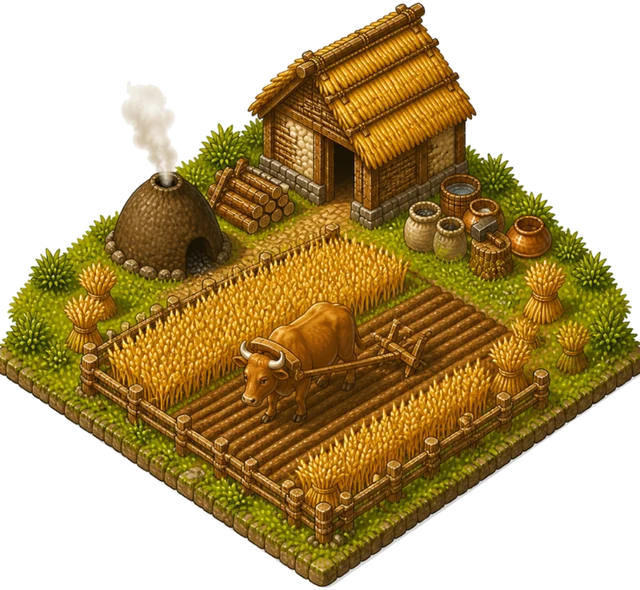
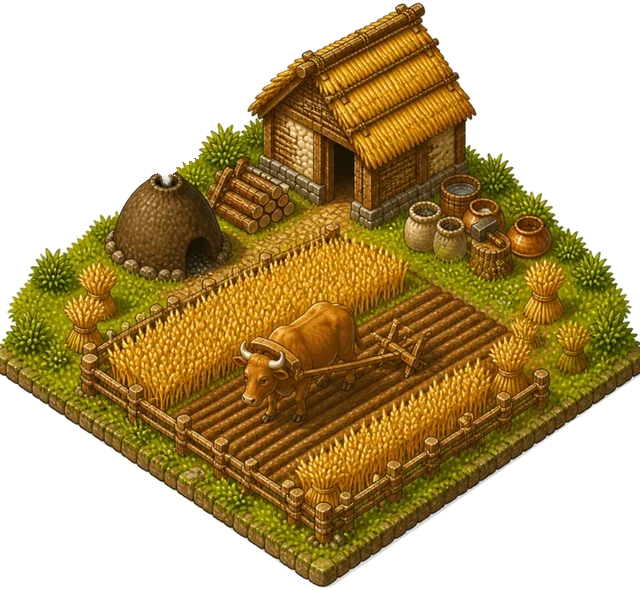
Epochia (gesammelt): Beschleunigungssteine am Gebäude, „Neu“ nur für neue Gebäude, starren Rauch aus 10 Bildern entfernt, Tagesbelohnung hochkant kompakt
Claude-Session: https://claude.ai/code/session_01W1n1hdvEnuKJoocRNGs93d

Changed region(s): [[0.1875, 0.122, 0.2812, 0.3051]]

diff --git a/neu/js/shop.js b/neu/js/shop.js
@@ -34,12 +34,39 @@ function speedUp(key, seconds, price) {
   const t = speedTargets().find(x => x.key === key);
   if (!t) return 'Das läuft nicht mehr';
   if (!spendGold(price)) return 'Nicht genug Gold';
-  const left = Math.max(0.01, t.left - seconds);
+  applySpeed(key, t.left - seconds);
+  return null;
+}
+
+function applySpeed(key, rest) {
+  const left = Math.max(0.01, rest);
   if (key === 'r') state.research.left = left;
   else if (key[0] === 'b') state.buildings[Number(key.slice(1))].build = left;
   else if (key[0] === 'u') state.buildings[Number(key.slice(1))].up = left;
   else state.wonders[key.slice(1)].left = left;
   emit('speedUsed', key);
+}
+
+// Beschleunigungsstein: am Gebäude (Bau oder Ausbau) – ein Stein spart CONFIG.shop.stone.seconds
+function stoneKey(i) {
+  const b = state.buildings[i];
+  if (!b || BUILDINGS[b.type].wonder) return null;
+  return b.build > 0 ? 'b' + i : b.up > 0 ? 'u' + i : null;
+}
+function useStone(i) {
+  const key = stoneKey(i);
+  const t = key && speedTargets().find(x => x.key === key);
+  if (!t) return 'Hier wird gerade nichts gebaut';
+  if ((state.shop.stones || 0) < 1) return 'Keine Beschleunigungssteine';
+  state.shop.stones -= 1;
+  applySpeed(key, t.left - CONFIG.shop.stone.seconds);
+  return null;
+}
+function buyStones(k) {
+  const p = CONFIG.shop.stone.packs[k];
+  if (!spendGold(p.price)) return 'Nicht genug Gold';
+  state.shop.stones = (state.shop.stones || 0) + p.n;
+  emit('goldChanged');
   return null;
 }
 
@@ -97,6 +124,12 @@ function shopRow(icon, title, sub, price, onclick, enabled = true) {
     <button class="btn${can ? ' primary' : ''}" ${can ? '' : 'disabled'} onclick="${onclick}">${goldText(price)}<small class="shop-euro">≈ ${goldEuro(price)} €</small></button></div>`;
 }
 
+function stoneShopHtml() {
+  const c = CONFIG.shop.stone;
+  return `<p class="empty-note">Du hast <b>⚡ ${state.shop.stones || 0}</b>. Tippe beim Bauen oder Ausbauen auf ⚡ am Gebäude: Jeder Stein spart ${Math.round(c.seconds / 60)} Minuten.</p>`
+    + c.packs.map((p, k) => shopRow('<span class="ic emoji big">⚡</span>', `${p.n} Beschleunigungssteine`, `${p.n * Math.round(c.seconds / 60)} Minuten schneller bauen`, p.price, `doBuyStones(${k})`)).join('');
+}
+
 function shopSpeedHtml() {
   const list = speedTargets();
   if (!list.length) return '<p class="empty-note">Gerade läuft nichts, das man beschleunigen kann.</p>';
@@ -133,6 +166,7 @@ function shopInner() {
     : shopRow('<span class="ic emoji big">🏗</span>', 'Eine Baustelle mehr', `Dauerhaft ${CONFIG.maxConstructions + 1} statt ${CONFIG.maxConstructions} gleichzeitig`, c.slotPrice, 'doBuySlot()');
   return `<div class="shop-head"><span class="shop-gold">${goldText(state.shop.gold)}</span><small>${c.testMode ? 'Testmodus: Es fließt kein echtes Geld.' : ''} Gold gibt es auch für Aufträge, Wünsche und die große Truhe.</small></div>
     <h3 class="find-page">Gold</h3><div class="shop-packs">${packs}</div>
+    <h3 class="find-page">Beschleunigungssteine</h3><div class="quests">${stoneShopHtml()}</div>
     <h3 class="find-page">Beschleunigen</h3><div class="quests">${shopSpeedHtml()}</div>
     ${finds ? `<h3 class="find-page">Fehlende Fundstücke</h3><div class="quests">${finds}</div>` : ''}
     <h3 class="find-page">Warenpakete</h3><div class="quests">${goods}</div>
@@ -157,6 +191,15 @@ function doSpeed(key, secs, price) { shopDone(speedUp(key, secs, price), '⚡ Be
 function doPack(i) { shopDone(buyPack(i), `🪙 +${CONFIG.shop.packs[i].gold} Gold (Test, kostenlos)`); }
 function doBuyFind(id) { shopDone(buyFind(id)); }
 function doBuyGoods(k) { shopDone(buyGoods(k), '📦 Waren geliefert'); }
+function doBuyStones(k) { shopDone(buyStones(k), `⚡ +${CONFIG.shop.stone.packs[k].n} Beschleunigungssteine`); }
+function doUseStone(i) {
+  const err = useStone(i);
+  if (err === 'Keine Beschleunigungssteine') { closeInfo(); toast('⚡ Keine Beschleunigungssteine mehr – im Shop gibt es neue'); openShop(); return; }
+  if (err) { toast(err); return; }
+  toast(`⚡ ${Math.round(CONFIG.shop.stone.seconds / 60)} Minuten schneller · noch ${state.shop.stones} Steine`);
+  playSound('muenze');
+  showInfo(i);
+}
 function doBuySlot() { shopDone(buySlot(), '🏗 Eine Baustelle mehr'); }
 
 // Knopf für Fenster: zum Shop

diff --git a/neu/js/oberflaeche.js b/neu/js/oberflaeche.js
@@ -321,19 +321,27 @@ function setBarCategory(id) {
   if (bar) bar.scrollLeft = 0;
 }
 
+// „Neu“ nur für wirklich neue Gebäude: löst ein Gebäude durch Forschung oder Zeitalter nur ein älteres derselben
+// Reihe ab (Pflanzerin → Baumgärtnerin), ist es nicht neu, nur anders (Wunsch Emin, 08.11.2026)
+function barIsNew(type, locked) {
+  const def = BUILDINGS[type];
+  if (locked || !def.requires || (state.seen || {})[type]) return false;
+  return !Object.entries(BUILDINGS).some(([t, d]) => t !== type && d.line === def.line && d.tier < def.tier && !d.upgradeOnly && d.buildable !== false);
+}
+
 function renderBuildBar() {
   if (barDrag) return;   // nicht neu aufbauen, solange ein Finger auf der Leiste liegt
   // Im Einstieg zeigt die Leiste die Kategorie, in der das gesuchte Gebäude steht
   const wanted = typeof tutorialBarType === 'function' ? tutorialBarType() : null;
   if (wanted && BUILDINGS[wanted]) barCategory = categoryOf(wanted);
   const entries = barEntries();
-  const fresh = new Set(entries.filter(({ type, locked }) => !locked && BUILDINGS[type].requires && !(state.seen || {})[type]).map(e => categoryOf(e.type)));
+  const fresh = new Set(entries.filter(({ type, locked }) => barIsNew(type, locked)).map(e => categoryOf(e.type)));
   const tabs = BAR_CATEGORIES.filter(c => entries.some(e => categoryOf(e.type) === c.id)).map(c =>
     `<button class="bar-tab${c.id === barCategory ? ' active' : ''}" onclick="setBarCategory('${c.id}')"><span class="emoji">${c.icon}</span><span class="tname">${esc(c.name)}</span>${fresh.has(c.id) && c.id !== barCategory ? '<i class="dot"></i>' : ''}</button>`).join('');
   if (tabs !== lastTabs) { $('bar-tabs').innerHTML = tabs; lastTabs = tabs; }
   const items = entries.filter(e => categoryOf(e.type) === barCategory).map(({ type, locked }) => {
     const def = BUILDINGS[type];
-    const isNew = !locked && def.requires && !(state.seen || {})[type];
+    const isNew = barIsNew(type, locked);
     const affordable = canAfford(def.cost);
     return `<div class="bar-item${locked ? ' locked' : ''}${affordable ? '' : ' poor'}" data-type="${type}"
         onpointerdown="onBarPointerDown(event,'${type}',${locked})" onpointermove="onBarPointerMove(event)"
@@ -508,6 +516,7 @@ function infoPopHtml(i) {
   }
   const btn = [];
   if (def.workers && !b.build) btn.push(`<button class="rb" aria-label="${b.paused ? 'Weiter' : 'Pause'}" onclick="${stop} togglePause(${i}); showInfo(${i})">${b.paused ? '▶' : '⏸'}</button>`);
+  if (typeof stoneKey === 'function' && stoneKey(i)) btn.push(`<button class="rb fast" aria-label="Beschleunigen (${state.shop.stones || 0} Steine)" onclick="${stop} doUseStone(${i})">⚡<i>${state.shop.stones || 0}</i></button>`);
   if (canLevelHere(i)) btn.push(`<button class="rb up" aria-label="Ausbauen" onclick="${stop} infoFor.level = true; clearTimeout(infoTimer); positionInfo()">⬆</button>`);
   if (def.storage && !b.build) btn.push(`<button class="rb" aria-label="Lager" onclick="${stop} closeInfo(); openLager()">📦</button>`);
   btn.push(`<button class="rb main" aria-label="Mehr über das Gebäude" onclick="${stop} closeInfo(); showBuildingWindow(${i})">i</button>`);

diff --git a/neu/style.css b/neu/style.css
@@ -927,8 +927,12 @@ details.more[open] summary { margin-bottom: 4px; }
   .daily-head p { font-size: 13px; }
 }
 @media (max-width: 560px) {
-  .days { grid-template-columns: repeat(4, 1fr); }
-  .day.chest { grid-column: span 1; }
+  /* hochkant: Tag 1–6 in drei Spalten, die große Truhe (Tag 7) als breite Zeile darunter – nichts wird lang gezogen */
+  .days { grid-template-columns: repeat(3, 1fr); align-items: start; }
+  .day { padding: 5px 4px 7px; }
+  .day.chest { grid-column: 1 / -1; flex-direction: row; justify-content: center; gap: 10px; padding: 6px 10px; }
+  .day.chest .ic.big { width: 44px; height: 44px; }
+  .day.chest .day-goods { flex-direction: row; flex-wrap: wrap; justify-content: center; gap: 2px 10px; }
 }
 
 /* Wunsch des Stammes (über den Aufträgen) */
@@ -1016,6 +1020,10 @@ details.history summary { cursor: pointer; font-weight: bold; color: var(--ink-s
 .rb.main { background: linear-gradient(#7ed957, #4caf50); border-color: #2e7d32; color: #fff; box-shadow: 0 2px 0 #2e7d32; font-family: Georgia, serif; font-style: italic; font-size: 20px; }
 .rb.up { background: linear-gradient(#ffe08a, #f2b632); border-color: #b07a10; color: #4a3200; box-shadow: 0 2px 0 #b07a10; }
 .rb:disabled { opacity: 0.45; }
+/* Beschleunigen mit Steinen: blauer Knopf, kleine Zahl = Steine übrig */
+.rb.fast { position: relative; background: linear-gradient(#8fd3ff, #3a8fd8); border-color: #1f5f9a; color: #fff; box-shadow: 0 2px 0 #1f5f9a; font-size: 20px; }
+.rb.fast i { position: absolute; right: -5px; bottom: -5px; min-width: 18px; height: 18px; padding: 0 4px; border-radius: 9px; background: #fff; color: #1f5f9a;
+  border: 2px solid #1f5f9a; font: 700 11px/14px system-ui, sans-serif; font-style: normal; box-sizing: border-box; }
 
 /* Ladefenster: Prozent und Ladeschritte (Emin, 07.11.) */
 .load-row { display: flex; align-items: center; gap: 10px; margin-top: 18px; }

diff --git a/neu/js/speicher.js b/neu/js/speicher.js
@@ -120,7 +120,7 @@ function sanitizeState(data) {
   // Wunderwerke: nur der Fortschritt zählt. Unfertig bleibt b.build auf 1, fertig auf 0.
   for (const b of s.buildings) { const id = BUILDINGS[b.type].wonder; if (id) b.build = s.wonders[id] && s.wonders[id].step >= WONDERS[id].steps.length ? 0 : 1; }
   if (data.disasterNext && DISASTERS[data.disasterNext.id] && Number.isFinite(data.disasterNext.left)) s.disasterNext = { id: data.disasterNext.id, left: Math.max(0, data.disasterNext.left) };
-  if (data.shop && typeof data.shop === 'object') for (const key of ['gold', 'spent', 'slots']) if (Number.isFinite(data.shop[key]) && data.shop[key] >= 0) s.shop[key] = Math.floor(data.shop[key]);
+  if (data.shop && typeof data.shop === 'object') for (const key of ['gold', 'spent', 'slots', 'stones']) if (Number.isFinite(data.shop[key]) && data.shop[key] >= 0) s.shop[key] = Math.floor(data.shop[key]);
   if (data.finds && typeof data.finds === 'object')
     for (const [id, n] of Object.entries(data.finds)) if (FINDS[id] && Number.isFinite(n) && n > 0) s.finds[id] = Math.floor(n);
   const onMap = (x, y) => Number.isInteger(x) && Number.isInteger(y) && x >= 0 && y >= 0 && x < N && y < N;

diff --git a/neu/js/zeichnen.js b/neu/js/zeichnen.js
@@ -1370,6 +1370,13 @@ const EFFECTS = {
   '1-steinkreis':        [{ u: 0.51, v: 0.38, feuer: 0.9, rauch: 0.7, rv: 0.34 }],
   '1-langhaus':          [{ u: 0.76, v: 0.25, feuer: 0, rauch: 1.0 }],
   '1-toepferei':         [{ u: 0.75, v: 0.45, feuer: 0.6, rauch: 0 }, { u: 0.78, v: 0.23, feuer: 0, rauch: 1.1 }],
+  // Bronzezeit: gemalter, starrer Rauch entfernt (neu/tools/rauch-weg.py, Wunsch Emin 08.11.2026), hier steigt er bewegt auf
+  '2-feld':             [{ u: 0.249, v: 0.30, feuer: 0, rauch: 0.9 }],
+  '2-felsritzer':       [{ u: 0.246, v: 0.37, feuer: 0, rauch: 0.9 }],
+  '2-hallenhaus':       [{ u: 0.182, v: 0.38, feuer: 0, rauch: 0.7 }],
+  '2-koehler':          [{ u: 0.259, v: 0.39, feuer: 0, rauch: 1.1 }],
+  '2-kupferschmied':    [{ u: 0.255, v: 0.33, feuer: 0, rauch: 0.9 }],
+  '2-toepferwerkstatt': [{ u: 0.218, v: 0.375, feuer: 0, rauch: 1.0 }],
   // Rückansichten (r2): Feuer und Rauch an den Stellen im jeweiligen Bild
   '1-lagerfeuer-r2':        [{ u: 0.49, v: 0.36, feuer: 1.5, rauch: 1.2, rv: 0.24 }],
   '1-feuerplatz-r2':        [{ u: 0.475, v: 0.63, feuer: 1.0, rauch: 0.9, rv: 0.5 }],

diff --git a/neu/js/welt.js b/neu/js/welt.js
@@ -38,7 +38,7 @@ function newState(seed = Math.floor(Math.random() * 1e9)) {
     huntsDone: 0,            // so oft waren die Jäger auf Mammutjagd
     trader: { wait: CONFIG.trader.firstWait, left: 0, visit: 0, done: [] },   // Händler: Sekunden bis er kommt, bis er geht, Besuch Nr., schon getauschte Angebote
     tradesDone: 0,           // so oft wurde mit dem Händler getauscht
-    shop: { gold: 0, spent: 0, slots: 0 },   // Shop: Gold, ausgegeben, zusätzliche Baustelle (später auf dem Server)
+    shop: { gold: 0, spent: 0, slots: 0, stones: CONFIG.shop.stone.start },   // Shop: Gold, ausgegeben, zusätzliche Baustelle (später auf dem Server)
     wonders: {},             // Wunderwerk → { step: fertige Abschnitte, left: Restzeit des laufenden Abschnitts }
     finds: {},               // Fundstück → Anzahl
     spots: [],               // Fundstellen auf der Karte: { kind, x, y, find }

diff --git a/neu/js/daten.js b/neu/js/daten.js
@@ -169,6 +169,9 @@ const CONFIG = {
       gross: { name: 'Großes Warenpaket', price: 100, extra: 4, goods: { nahrung: 400, holz: 400, stein: 200 } },
     },
     slotPrice: 300,
+    // Beschleunigungssteine (Wunsch Emin, 08.11.2026): ⚡ am Gebäude, jeder Stein spart 5 Minuten Bau- oder Ausbauzeit.
+    // Zum Start gibt es ein paar zum Ausprobieren, weitere im Shop (später gegen echtes Geld)
+    stone: { seconds: 300, start: 3, packs: [{ n: 5, price: 20 }, { n: 15, price: 50 }] },
     earn: { quest: 5, wish: 2, chest: 20 },   // so viel Gold verdient man ohne Kauf
   },
   hunt: {                 // Mammutjagd (nach der Forschung „Mammutjagd“, bis zur Jungsteinzeit)

diff --git a/neu/tools/rauch-weg.py b/neu/tools/rauch-weg.py
@@ -1,0 +1,76 @@
+# Epochia: gemalten (starren) Rauch aus Gebäudebildern entfernen (Wunsch Emin, 08.11.2026: „Manche Gebäude haben immer
+# noch unbewegliche Rauchwolken“). Danach steigt dort der bewegte Rauch des Spiels auf (EFFECTS in neu/js/zeichnen.js).
+#   python3 neu/tools/rauch-weg.py            alle Bilder aus der Liste (immer auf die unveränderten Bilder anwenden)
+# Je Bild: Kasten um die Rauchfahne als Anteil der Bildbreite/-höhe (u0, u1, v0, v1). v1 = Öffnung des Schornsteins,
+# darunter wird nichts angefasst. Entfernt wird nur die zusammenhängende Rauchfahne (hell, kaum farbig) ab ihrer Spitze,
+# Schnee auf Büschen daneben bleibt. Liegt die Fahne vor dem Boden (boden = ab hier), wird sie dort zu glattem Schnee.
+import colorsys, glob
+from PIL import Image
+
+KAESTEN = {   # name: (u0, u1, v0, v1, boden)
+    '2-feld':                 (0.15, 0.30, 0.05, 0.295, None),
+    '2-feld-winter':          (0.15, 0.27, 0.05, 0.275, None),
+    '2-felsritzer':           (0.13, 0.28, 0.05, 0.365, None),
+    '2-felsritzer-winter':    (0.13, 0.27, 0.05, 0.305, None),
+    '2-hallenhaus':           (0.13, 0.20, 0.10, 0.375, None),
+    '2-koehler':              (0.14, 0.30, 0.05, 0.385, None),
+    '2-kupferschmied':        (0.15, 0.28, 0.05, 0.312, None),
+    '2-kupferschmied-winter': (0.13, 0.29, 0.00, 0.330, None),
+    '2-toepferwerkstatt':     (0.12, 0.25, 0.05, 0.370, None),
+    '1-toepferei-r2-winter':  (0.235, 0.315, 0.12, 0.415, 0.265),
+}
+
+def rauchig(r, g, b, streng=True):
+    h, s, v = colorsys.rgb_to_hsv(r / 255, g / 255, b / 255)
+    return (s < 0.28 and v > 0.5) if streng else (s < 0.4 and v > 0.35)
+
+for name, (u0, u1, v0, v1, boden) in KAESTEN.items():
+    datei = glob.glob(f'bilder/epochia/gebaeude/*/{name}.webp')[0]
+    im = Image.open(datei).convert('RGBA'); w, h = im.size; px = im.load()
+    x0, x1, y0, y1 = int(u0 * w), int(u1 * w), int(v0 * h), int(v1 * h)
+    inn = lambda x, y: x0 <= x < x1 and y0 <= y < y1
+    ok = lambda x, y: px[x, y][3] > 0 and rauchig(*px[x, y][:3])
+    gesehen, weg = set(), set()
+    for y in range(y0, y1):   # größte zusammenhängende helle Fläche im Kasten = die Rauchfahne
+        for x in range(x0, x1):
+            if (x, y) in gesehen or not ok(x, y): continue
+            teil, stapel = {(x, y)}, [(x, y)]
+            while stapel:
+                a, b = stapel.pop()
+                for dx, dy in ((1, 0), (-1, 0), (0, 1), (0, -1), (1, 1), (-1, 1), (1, -1), (-1, -1)):
+                    q = (a + dx, b + dy)
+                    if q not in teil and inn(*q) and ok(*q): teil.add(q); stapel.append(q)
+            gesehen |= teil
+            if len(teil) > len(weg): weg = teil
+    # Ränder der Fahne, die über den Kasten hinausragen: höchstens 10 Bildpunkte weiter, nur durch Rauchfarbe
+    breit = lambda x, y: x0 - 10 <= x < x1 + 10 and y0 - 10 <= y < y1
+    rand = set(weg)
+    for _ in range(10):
+        rand = {q for (x, y) in rand for q in ((x + 1, y), (x - 1, y), (x, y - 1), (x, y + 1))
+                if q not in weg and breit(*q) and ok(*q)}
+        weg |= rand
+    for _ in range(2):   # weicher Rand der Rauchfahne
+        neu = {q for (x, y) in weg for q in ((x + 1, y), (x - 1, y), (x, y + 1), (x, y - 1))
+               if q not in weg and breit(*q) and px[q][3] > 0 and (px[q][3] < 250 or rauchig(*px[q][:3], False))}
+        weg |= neu
+    if boden is not None:   # Schneefarbe vom Boden neben der Fahne (Mittelwert heller Punkte), leicht gesprenkelt
+        yb = int(boden * h)
+        probe = [px[x, y][:3] for y in range(yb, y1) for x in range(x0 - 15, x1 + 15)
+                 if (x, y) not in weg and px[x, y][3] > 250 and sum(px[x, y][:3]) > 640]
+        farbe = tuple(sorted(c[i] for c in probe)[len(probe) // 2] for i in range(3))
+    import random; random.seed(1)
+    for (x, y) in weg:
+        r, g, b, a = px[x, y]
+        if boden is not None and y >= boden * h:
+            n = random.randint(-5, 4); px[x, y] = (*(min(255, c + n) for c in farbe), 255)
+        else: px[x, y] = (r, g, b, 0)
+    # Rest der Fahne knapp über der Öffnung weich ausblenden (keine flache Kante; dort steigt der bewegte Rauch auf)
+    if boden is None:
+        unten = [x for (x, y) in weg if y >= y1 - 4]   # nur so breit, wie die Fahne unten war (Ofenrand bleibt)
+        fx0, fx1 = (min(unten), max(unten) + 1) if unten else (0, 0)
+        for y in range(y1, min(h, y1 + 14)):
+            for x in range(fx0, fx1):
+                r, g, b, al = px[x, y]
+                if al > 0 and rauchig(r, g, b): px[x, y] = (r, g, b, int(al * (y - y1 + 1) / 15))
+    im.save(datei, quality=86, method=6)
+    print(f'{name}: {len(weg)} Rauchpunkte entfernt')

diff --git a/docs/wuensche.md b/docs/wuensche.md
@@ -31,6 +31,7 @@ Stichworte reichen, z. B. „- Farm zeigt falsche Arbeiterzahl nach dem Verschie
 ## Erledigt
 
 <!-- Claude verschiebt erledigte Punkte hierher, mit Datum und Version -->
+- 2026-11-08, gesammelt für die nächste Version – Wünsche Emin: ⚡-Knopf am Gebäude zum Beschleunigen von Bau und Ausbau mit Beschleunigungssteinen (jeder spart 5 Minuten, 3 zum Ausprobieren, weitere im Shop); „Neu“ in der Bauleiste nur noch für wirklich neue Gebäude, nicht für Weiterentwicklungen (Pflanzerin → Baumgärtnerin); starrer gemalter Rauch aus 10 Bildern entfernt (Feld, Felsritzer, Hallenhaus, Köhler, Kupferschmied, Töpferwerkstatt, Töpferei-Rückseite im Winter), dort steigt jetzt bewegter Rauch auf (neu/tools/rauch-weg.py); Tägliche Belohnung hochkant kompakt: Tag 1–6 in drei Spalten, große Truhe als breite Zeile.
 - 2026-11-08, Epochia Version 150–151 – Wunsch Emin (Canva weiter): Winterbilder von Jagdhütte und Feld; neues Werkzeug platte-fuellen.py schließt Schnee-Lücken am Plattenrand.
 - 2026-11-08, Epochia Version 142 – Wunsch Emin: Ladebildschirm mit Ladebalken und Prozent; nacheinander „✔ … geladen“ (Wiesen, Häuser, Wunderwerke …). Beim Tageslauf geprüft, war schon gebaut.
 - 2026-11-07, Epochia Version 149 – Fehler Emin: Nach einmal Quer ließ sich Android nicht zurück auf hochkant drehen – Drehung wird bei jedem Drehen und jeder Berührung neu freigegeben; Bauleiste hochkant ohne leeren Streifen links, Kategorien enden vor dem ▾-Knopf.
